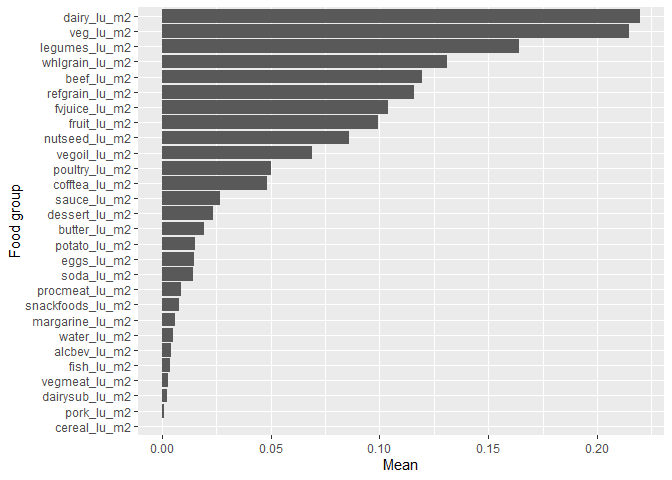
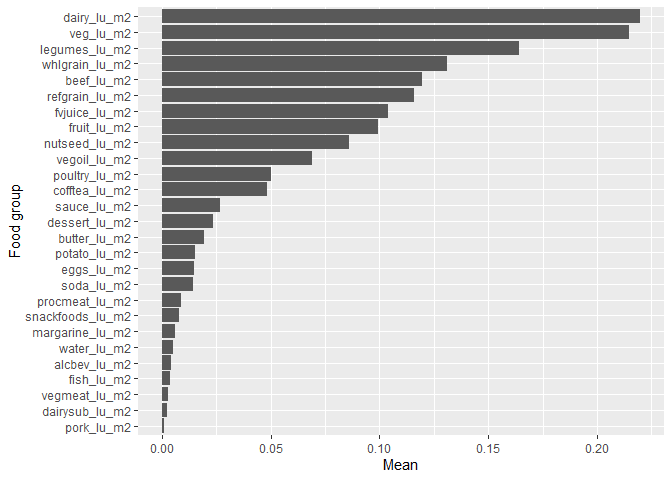
Added vegstat and standardized vars in dataprep.R

Changed region(s): [[0.0312, 0.0625, 0.25, 0.9062], [0.25, 0.0625, 0.7812, 0.7188]]

diff --git a/summary.md b/summary.md
@@ -37,7 +37,7 @@ AHS-2 Environmental Nutrition
     ## [11] "vegoil"     "eggs"       "dairy"      "dairysub"   "margarine" 
     ## [16] "butter"     "beef"       "procmeat"   "poultry"    "pork"      
     ## [21] "fish"       "water"      "soda"       "cofftea"    "alcbev"    
-    ## [26] "dessert"    "snackfoods" "cereal"
+    ## [26] "dessert"    "snackfoods"
 
 ### Issues
 
@@ -47,11 +47,13 @@ AHS-2 Environmental Nutrition
 ### Changes
 
 -   More subjects (+12,000) included.
--   `pork` and `beef` intakes were now separated.
+-   Dietary pattern (5 groups) added.
+-   `pork` and `beef` intakes are now separated.
 -   All food group variables (`*_kcal`, `*_gram`, `*_srv`, `*_gw_kg`,
     `*_lu_m2`, `*_wc_m3`) were winsorized at the 99.9th percentile of
     each variable. Total `kcal`, `gram`, `srv`, `gw_kg`, `lu_m2`, and
-    `wc_m3` were recalculated by summing across 28 food groups.
+    `wc_m3` were recalculated by summing across 28 food groups after
+    winsorization.
 
 ## Demographics
 
@@ -66,7 +68,12 @@ AHS-2 Environmental Nutrition
     ##   female (%)        Male           30921 (35.1) 
     ##                     Female         57057 (64.9) 
     ##   black (%)         Non-Black      65354 (74.7) 
-    ##                     Black          22175 (25.3)
+    ##                     Black          22175 (25.3) 
+    ##   vegstat (%)       Vegan           7351 ( 8.4) 
+    ##                     Lacto-ovo      26412 (30.0) 
+    ##                     Semi            4772 ( 5.4) 
+    ##                     Pesco           8655 ( 9.8) 
+    ##                     Non-veg        40817 (46.4)
 
 ## Total food intake
 
@@ -79,9 +86,9 @@ AHS-2 Environmental Nutrition
 <!-- -->
 
     ##         min      Q1  median      Q3     max    mean      sd skew
-    ## kcal 140.75 1234.70 1640.30 2145.19 4474.44 1746.07  703.61 0.80
-    ## gram 200.09 2160.76 2768.07 3448.33 9782.78 2851.89 1031.10 0.62
-    ## srv    1.48   30.87   39.56   49.80  129.16   41.17   14.66 0.65
+    ## kcal 140.75 1195.34 1591.82 2089.16 4440.27 1697.58  690.42 0.80
+    ## gram  88.99 2147.52 2754.31 3434.03 9762.23 2838.34 1029.28 0.62
+    ## srv    1.48   30.38   39.05   49.21  127.34   40.65   14.58 0.65
 
 ## Total environmental impact
 

diff --git a/README.md b/README.md
@@ -44,4 +44,9 @@
                     Female         57057 (64.9) 
   black (%)         Non-Black      65354 (74.7) 
                     Black          22175 (25.3) 
+  vegstat (%)       Vegan           7351 ( 8.4) 
+                    Lacto-ovo      26412 (30.0) 
+                    Semi            4772 ( 5.4) 
+                    Pesco           8655 ( 9.8) 
+                    Non-veg        40817 (46.4)
 ```
